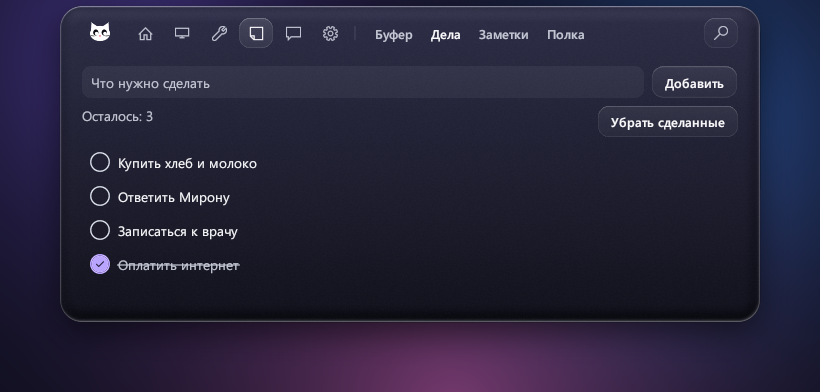
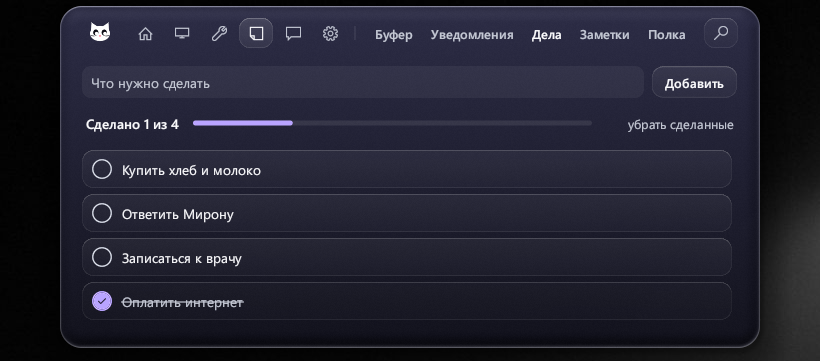
0.1.26: дела в карточках со строкой прогресса

diff --git a/src/main.rs b/src/main.rs
@@ -2113,29 +2113,50 @@ impl App {
         let left = self.cfg.todos.iter().filter(|t| !t.done).count();
         let done = self.cfg.todos.len() - left;
         let mut clear_done = false;
-        ui.horizontal(|ui| {
-            ui.label(RichText::new(if left == 0 { "Всё сделано".to_string() } else { format!("Осталось: {left}") }).color(DIM));
+        // строка прогресса: «Сделано 1 из 4», полоска и тихая ссылка «убрать сделанные»
+        {
+            ui.add_space(4.0);
+            let (row, _) = ui.allocate_exact_size(vec2(ui.available_width(), 26.0), Sense::hover());
+            let p = ui.painter().clone();
+            let total = self.cfg.todos.len();
+            let title = if left == 0 { "Всё сделано".to_string() } else { format!("Сделано {done} из {total}") };
+            let t = p.text(pos2(row.left() + 4.0, row.center().y), Align2::LEFT_CENTER, title, semi(13.5), if left == 0 { accent() } else { FG });
+            let link_w = if done > 0 { 132.0 } else { 0.0 };
             if done > 0 {
-                ui.with_layout(egui::Layout::right_to_left(egui::Align::Center), |ui| {
-                    clear_done = jelly(ui, "Убрать сделанные").clicked();
-                });
+                let lr = Rect::from_min_max(pos2(row.right() - link_w, row.top()), row.max);
+                let resp = ui.interact(lr, ui.id().with("todo-clear"), Sense::click()).on_hover_text("Удалить отмеченные дела");
+                let hov = ui.ctx().animate_bool_with_time(resp.id.with("hov"), resp.hovered(), 0.10);
+                let g = p.text(pos2(row.right() - 4.0, row.center().y), Align2::RIGHT_CENTER, "убрать сделанные", FontId::proportional(12.5), mix(DIM, FG, hov));
+                if hov > 0.0 {
+                    p.line_segment([pos2(g.left(), g.bottom()), pos2(g.right(), g.bottom())], Stroke::new(1.0_f32, rgba(255, 255, 255, (90.0 * hov) as u8)));
+                }
+                clear_done = resp.clicked();
             }
-        });
+            let bar = Rect::from_min_max(pos2(t.right() + 14.0, row.center().y - 2.5), pos2(row.right() - link_w - 14.0, row.center().y + 2.5));
+            if bar.width() > 20.0 {
+                let frac = ui.ctx().animate_value_with_time(ui.id().with("todo-frac"), done as f32 / total.max(1) as f32, 0.35);
+                p.rect_filled(bar, Rounding::same(2.5), rgba(255, 255, 255, 22));
+                if frac > 0.0 {
+                    let fill = Rect::from_min_max(bar.min, pos2(bar.left() + (bar.width() * frac).max(5.0), bar.bottom()));
+                    p.rect_filled(fill, Rounding::same(2.5), accent());
+                }
+            }
+            ui.add_space(6.0);
+        }
         let (mut toggle, mut remove) = (None, None);
         egui::ScrollArea::vertical().auto_shrink([false, false]).show(ui, |ui| {
-            ui.spacing_mut().item_spacing.y = 0.0;
+            ui.spacing_mut().item_spacing.y = 6.0;
             // сначала несделанные, потом сделанные; внутри — в порядке добавления
             let order: Vec<usize> = (0..self.cfg.todos.len()).filter(|i| !self.cfg.todos[*i].done).chain((0..self.cfg.todos.len()).filter(|i| self.cfg.todos[*i].done)).collect();
             for i in order {
                 let item = &self.cfg.todos[i];
-                let (row, resp) = ui.allocate_exact_size(vec2(ui.available_width() - 6.0, 34.0), Sense::click());
+                let (row, resp) = ui.allocate_exact_size(vec2(ui.available_width() - 6.0, 38.0), Sense::click());
                 let hov = ui.ctx().animate_bool_with_time(resp.id.with("hov"), resp.hovered(), 0.10);
                 let k = ui.ctx().animate_bool_with_time(ui.id().with(("todo-done", &item.text)), item.done, 0.16);
                 let p = ui.painter();
-                if hov > 0.0 {
-                    p.rect_filled(row, Rounding::same(10.0), rgba(255, 255, 255, (14.0 * hov) as u8));
-                }
-                let c = pos2(row.left() + 18.0, row.center().y);
+                // сделанные карточки тише: меньше стекла
+                glass_chip(p, row, 12.0, (0.42 - 0.22 * k) + 0.45 * hov);
+                let c = pos2(row.left() + 20.0, row.center().y);
                 let a = accent();
                 p.circle_stroke(c, 8.5, Stroke::new(1.5_f32, mix(DIM, a, k.max(hov * 0.6))));
                 if k > 0.0 {
@@ -2143,8 +2164,8 @@ impl App {
                     p.text(c, Align2::CENTER_CENTER, "\u{E73E}", FontId::proportional(9.5), Color32::from_rgba_unmultiplied(16, 14, 28, (k * 255.0) as u8));
                 }
                 let text = p
-                    .with_clip_rect(Rect::from_min_max(pos2(row.left() + 36.0, row.top()), pos2(row.right() - 34.0, row.bottom())))
-                    .text(pos2(row.left() + 36.0, row.center().y), Align2::LEFT_CENTER, &item.text, FontId::proportional(13.5), mix(FG, DIM, k));
+                    .with_clip_rect(Rect::from_min_max(pos2(row.left() + 40.0, row.top()), pos2(row.right() - 34.0, row.bottom())))
+                    .text(pos2(row.left() + 40.0, row.center().y), Align2::LEFT_CENTER, &item.text, FontId::proportional(13.5), mix(FG, DIM, k));
                 if k > 0.0 {
                     let end = text.left() + text.width().min(row.right() - 34.0 - text.left()) * k;
                     p.line_segment([pos2(text.left(), row.center().y + 1.0), pos2(end, row.center().y + 1.0)], Stroke::new(1.2_f32, DIM));
@@ -5428,7 +5449,7 @@ impl App {
             Tab::Clip => 340.0,
             Tab::Inbox => 340.0,
             Tab::Notes => 340.0,
-            Tab::Todo => 340.0,
+            Tab::Todo => 366.0,
             Tab::System => if self.stats.battery.is_some() { 416.0 } else { 394.0 },
             Tab::Settings => 528.0,
         }
